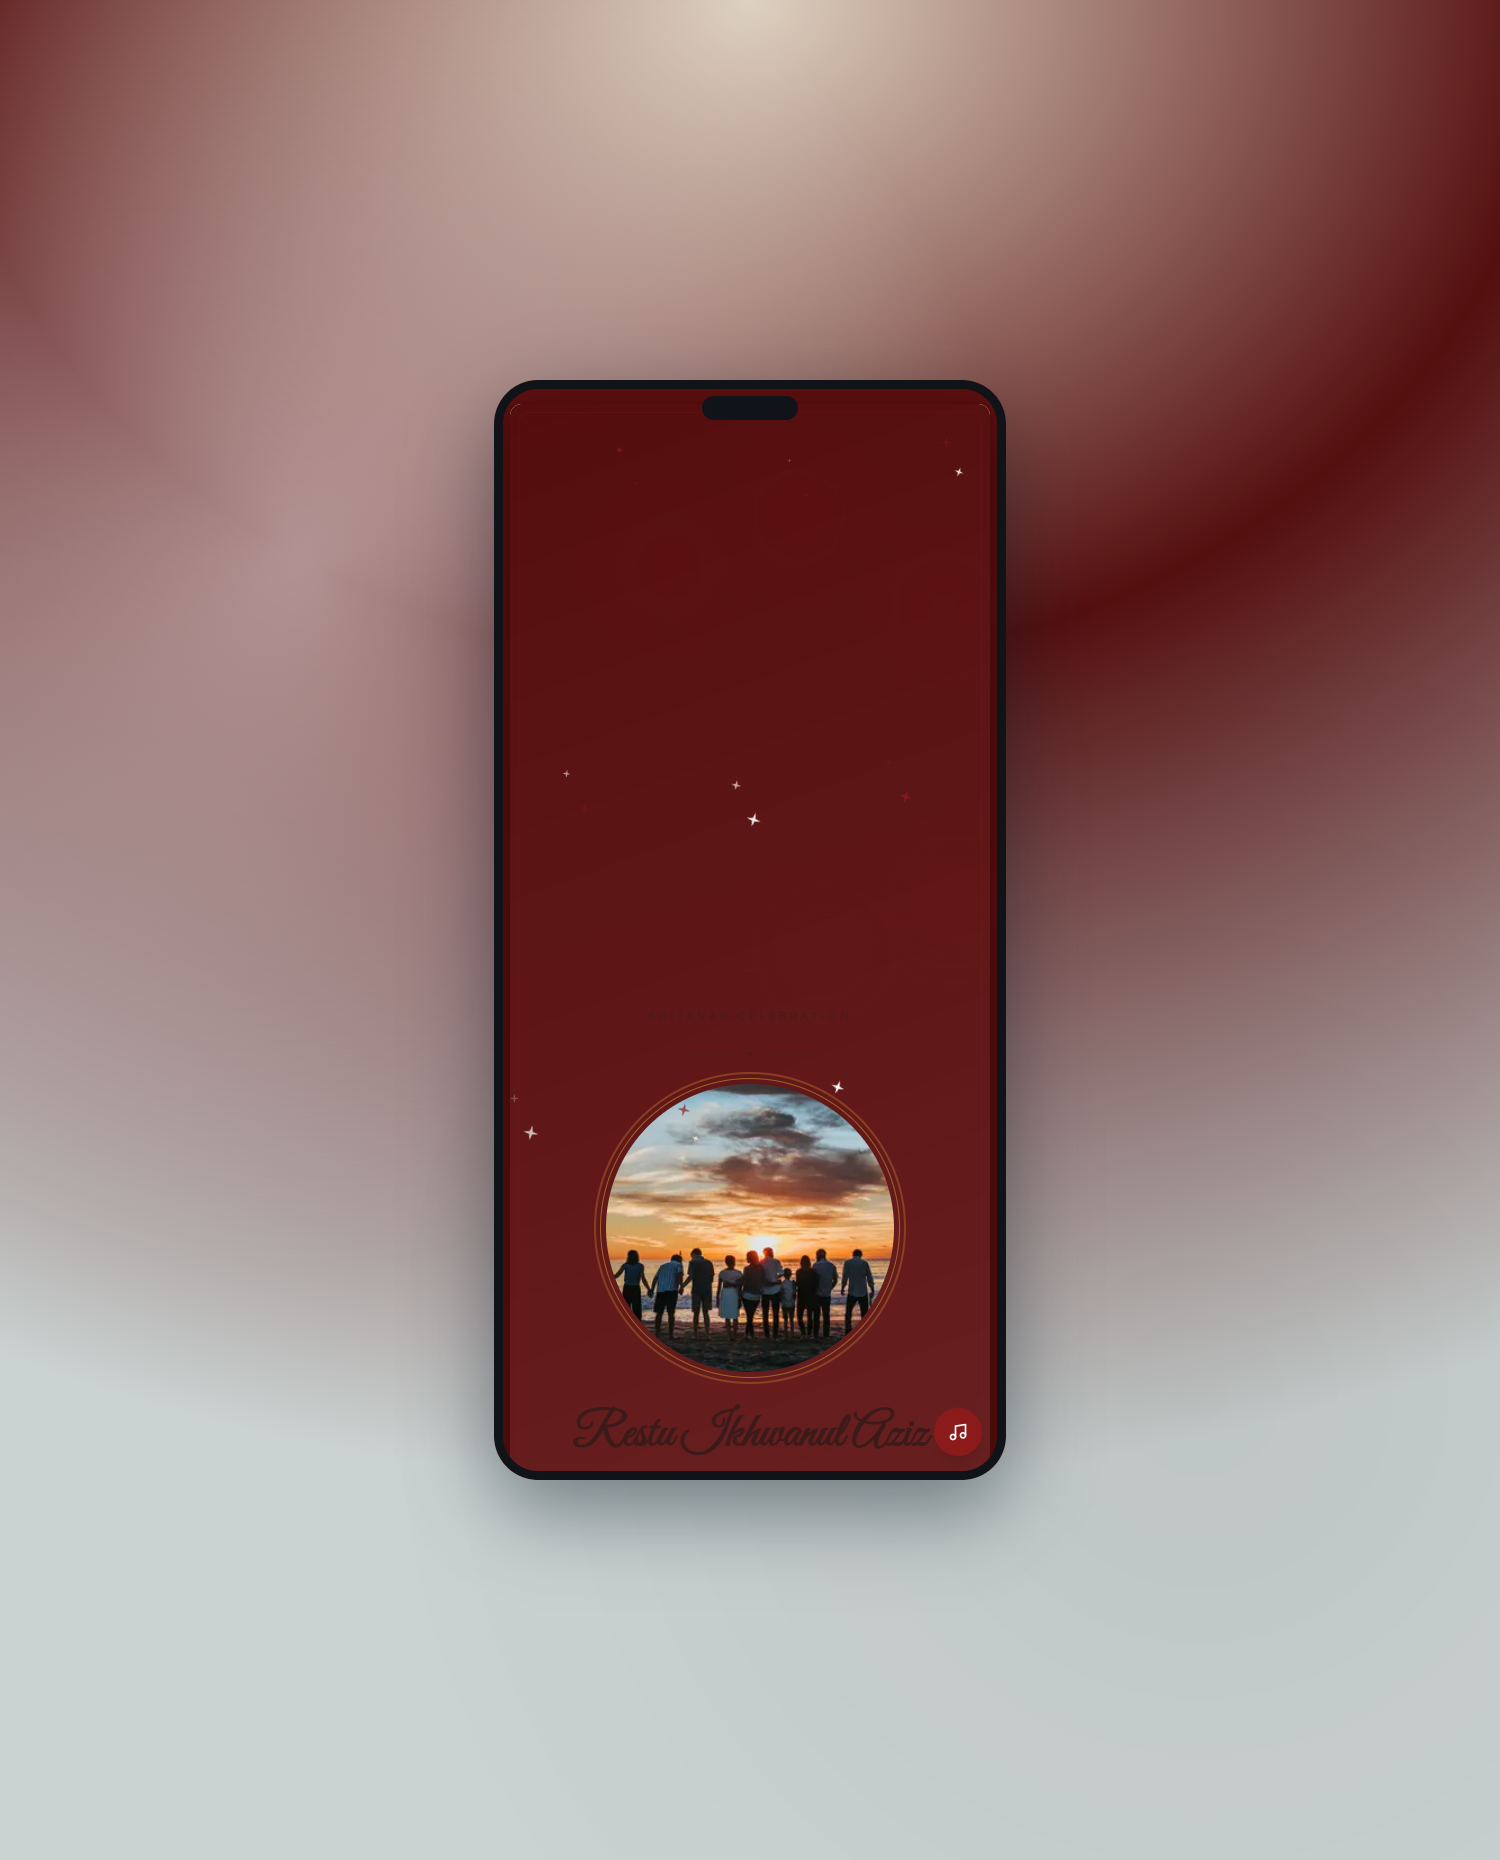
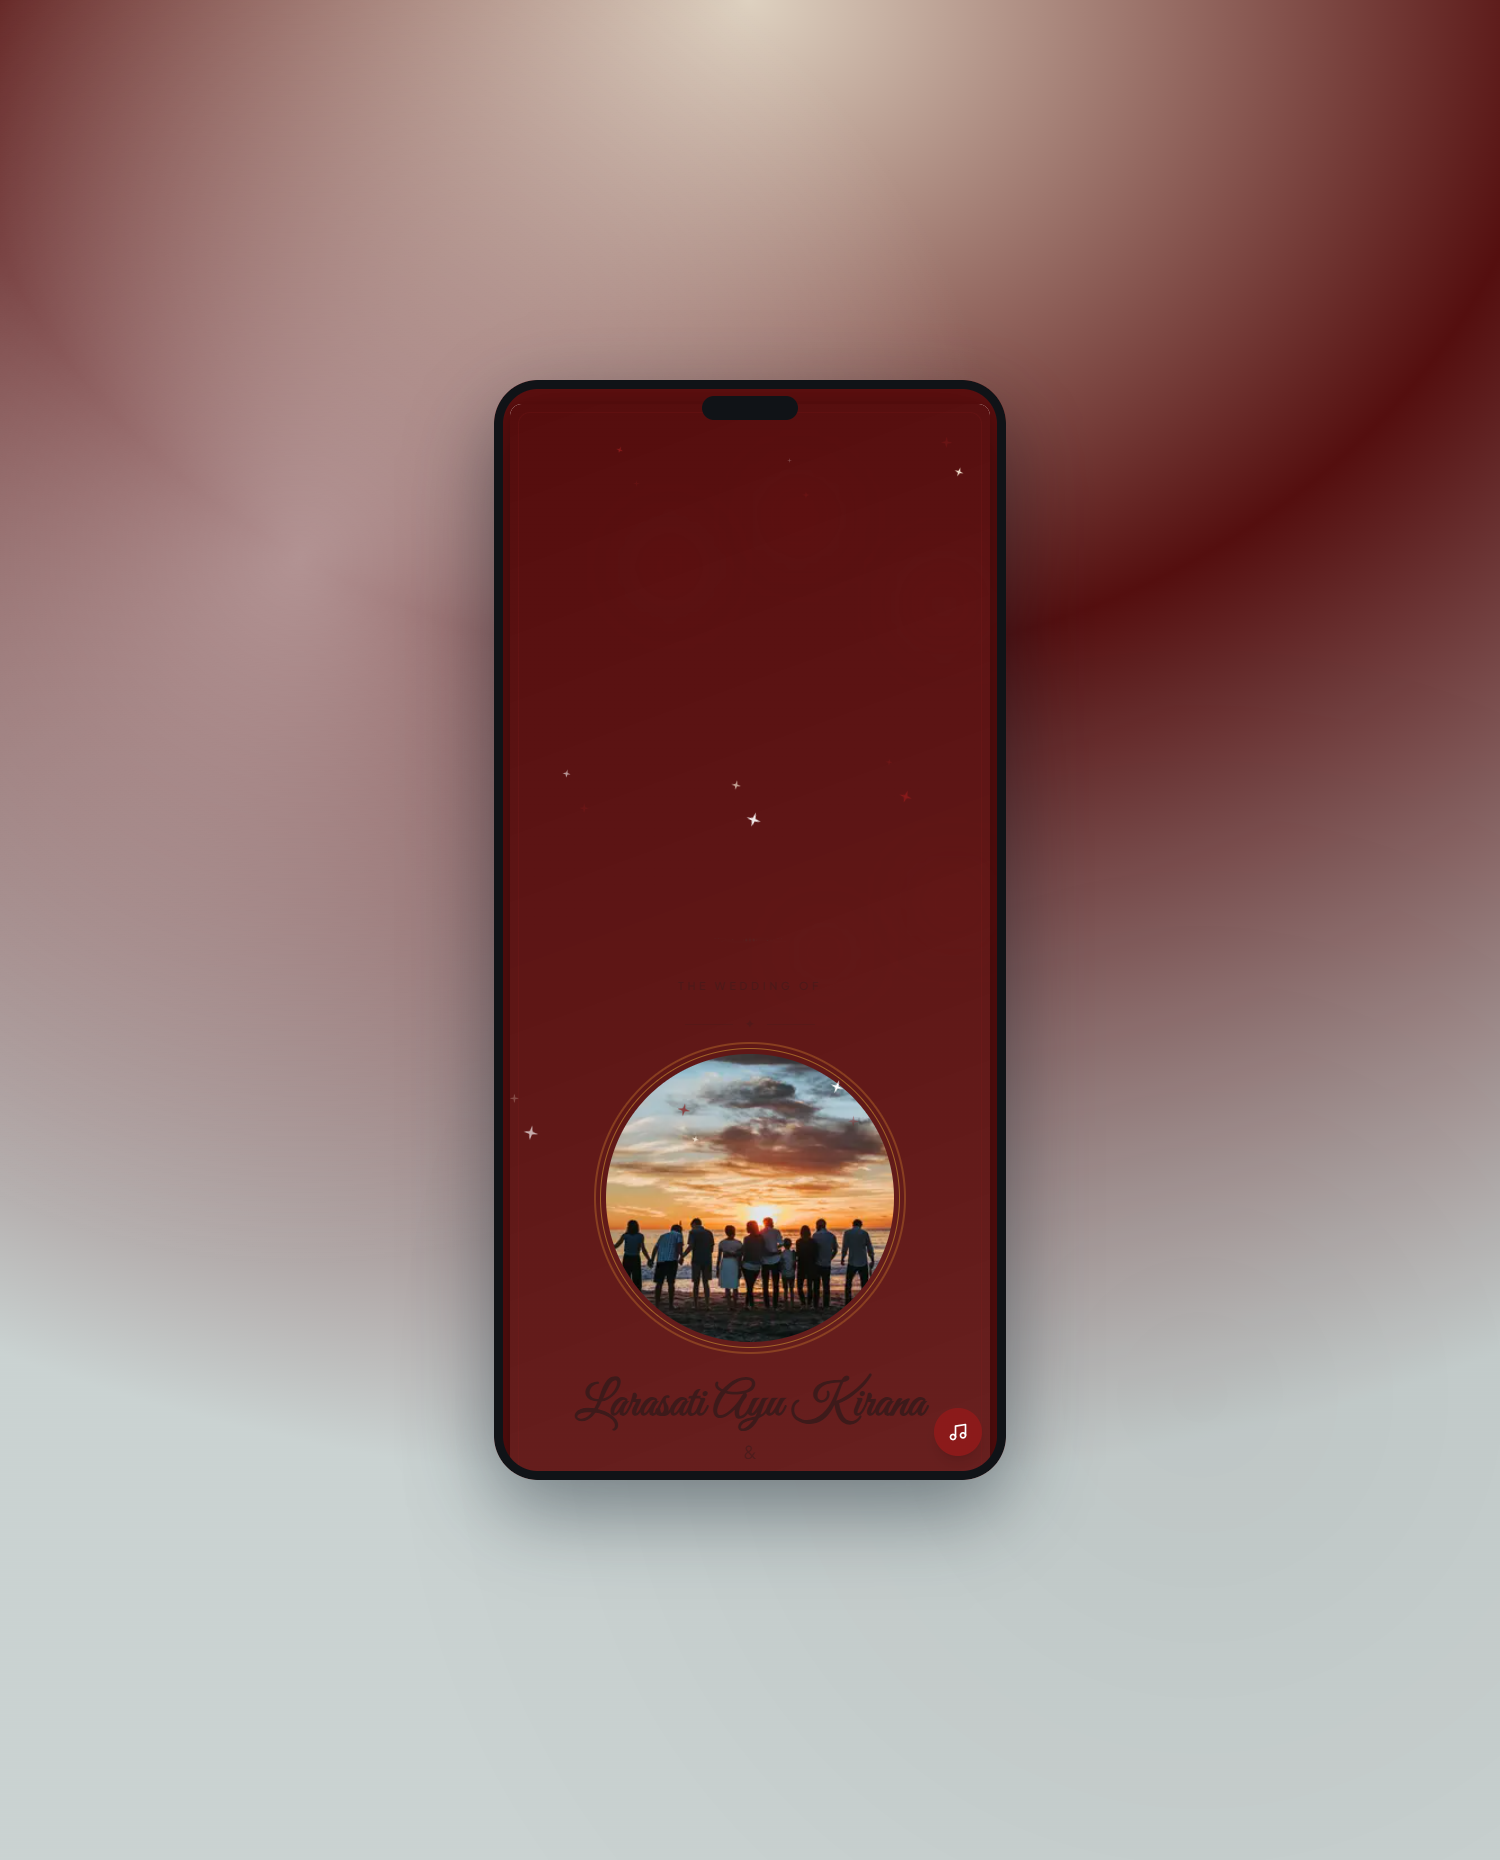
fix(template): ganti sample data royal-maroon — hapus data pribadi
- Restu Ikhwanul Aziz & Sapturi diganti nama fiktif Larasati & Rendra
- Rekening BRI 802101009926530 (SAPTURI) dihapus
- Venue diganti lokasi generik Serang, Banten
- Regenerate preview image royal-maroon.png

Changed region(s): [[0.368, 0.5613, 0.6133, 0.7796]]

diff --git a/src/modules/invitation/templates.ts b/src/modules/invitation/templates.ts
@@ -1009,36 +1009,55 @@ export const TEMPLATE_REGISTRY: Record<string, TemplateDefinition> = {
     },
     defaultSections: BASE_SECTIONS,
     demo: demoConfig({
-      type: "khitanan",
-      celebrant: { name: "Restu Ikhwanul Aziz", age: 7 },
-      host: { name: "Bapak Sapturi & Ibu Imah Rohmawati", role: "Orang Tua" },
-      date: "2026-11-01T08:00:00+07:00",
+      type: "pernikahan",
+      couple: {
+        brideName: "Larasati Ayu Kirana",
+        groomName: "Rendra Wicaksono",
+        brideParents: "Putri dari Bapak H. Surya Darma & Ibu Hj. Melati",
+        groomParents: "Putra dari Bapak Drs. Bambang Sutrisno & Ibu Dra. Ratna",
+        hashtag: "#LarasRendra2026",
+      },
+      date: "2026-12-05T09:00:00+07:00",
       photo: img("photo-1511895426328-dc8714191300"),
-      seoTitle: "Tasyakuran Khitan Restu Ikhwanul Aziz",
+      seoTitle: "Undangan Pernikahan Laras & Rendra - 5 Desember 2026",
       seoDescription:
-        "Undangan Tasyakuran Khitan Restu Ikhwanul Aziz, Minggu 1 November 2026 di Serang, Banten.",
+        "Undangan pernikahan Larasati Ayu Kirana & Rendra Wicaksono, Sabtu 5 Desember 2026 di Serang, Banten.",
       schedules: [
         {
-          title: "Tasyakuran Khitan",
-          start: "2026-11-01T08:00:00+07:00",
-          end: "2026-11-01T12:00:00+07:00",
-          venue: "Kediaman Keluarga",
-          address: "Link. Ujung Tebu RT. 002/001, Kel. Sukajaya, Kec. Curug, Kota Serang, Banten",
-          mapUrl: "https://maps.google.com/?q=Sukajaya+Serang+Banten",
+          title: "Akad Nikah",
+          start: "2026-12-05T08:00:00+07:00",
+          end: "2026-12-05T10:00:00+07:00",
+          venue: "Masjid Raya Banten",
+          address: "Jl. Maulana Yusuf, Serang, Banten",
+          mapUrl: "https://maps.google.com/?q=Masjid+Raya+Banten",
+        },
+        {
+          title: "Resepsi",
+          start: "2026-12-05T11:00:00+07:00",
+          end: "2026-12-05T14:00:00+07:00",
+          venue: "Grand Ballroom Serang",
+          address: "Jl. Khsatria, Serang, Banten",
+          mapUrl: "https://maps.google.com/?q=Serang+Banten",
         },
       ],
       story: [
         {
-          year: "Sabtu",
-          title: "Ceramah Agama & Qori Qoriah",
-          text: "Malam sebelum khitanan diisi dengan ceramah agama dan lantunan qori-qoriah.",
+          year: "2019",
+          title: "Pertama Bertemu",
+          text: "Berawal dari satu acara keluarga, obrolan sederhana berubah menjadi kebiasaan yang tak pernah absen.",
           image: img("photo-1519741497674-611481863552", 800),
         },
         {
-          year: "Minggu",
-          title: "Gambus Modern & Syukuran",
-          text: "Puncak acara tasyakuran khitan dengan Gambus Modern dan doa bersama.",
+          year: "2024",
+          title: "Lamaran",
+          text: "Di bawah restu keluarga besar, sebuah pertanyaan sederhana dijawab dengan satu kata: iya.",
           image: img("photo-1464366400600-7168b8af9bc3", 800),
+        },
+        {
+          year: "2026",
+          title: "Hari Bahagia",
+          text: "Kami menikah bersama doa orang tua, sahabat, dan Anda yang berkenan hadir.",
+          image: img("photo-1519741497674-611481863552", 800),
         },
       ],
       gallery: [
@@ -1046,7 +1065,6 @@ export const TEMPLATE_REGISTRY: Record<string, TemplateDefinition> = {
         { image: img("photo-1519741497674-611481863552", 900), caption: "Bersama" },
         { image: img("photo-1464366400600-7168b8af9bc3", 900), caption: "Bahagia" },
       ],
-      giftAccounts: [{ bank: "BRI", number: "802101009926530", holder: "SAPTURI" }],
     }),
   },
   "emerald-royal": {
